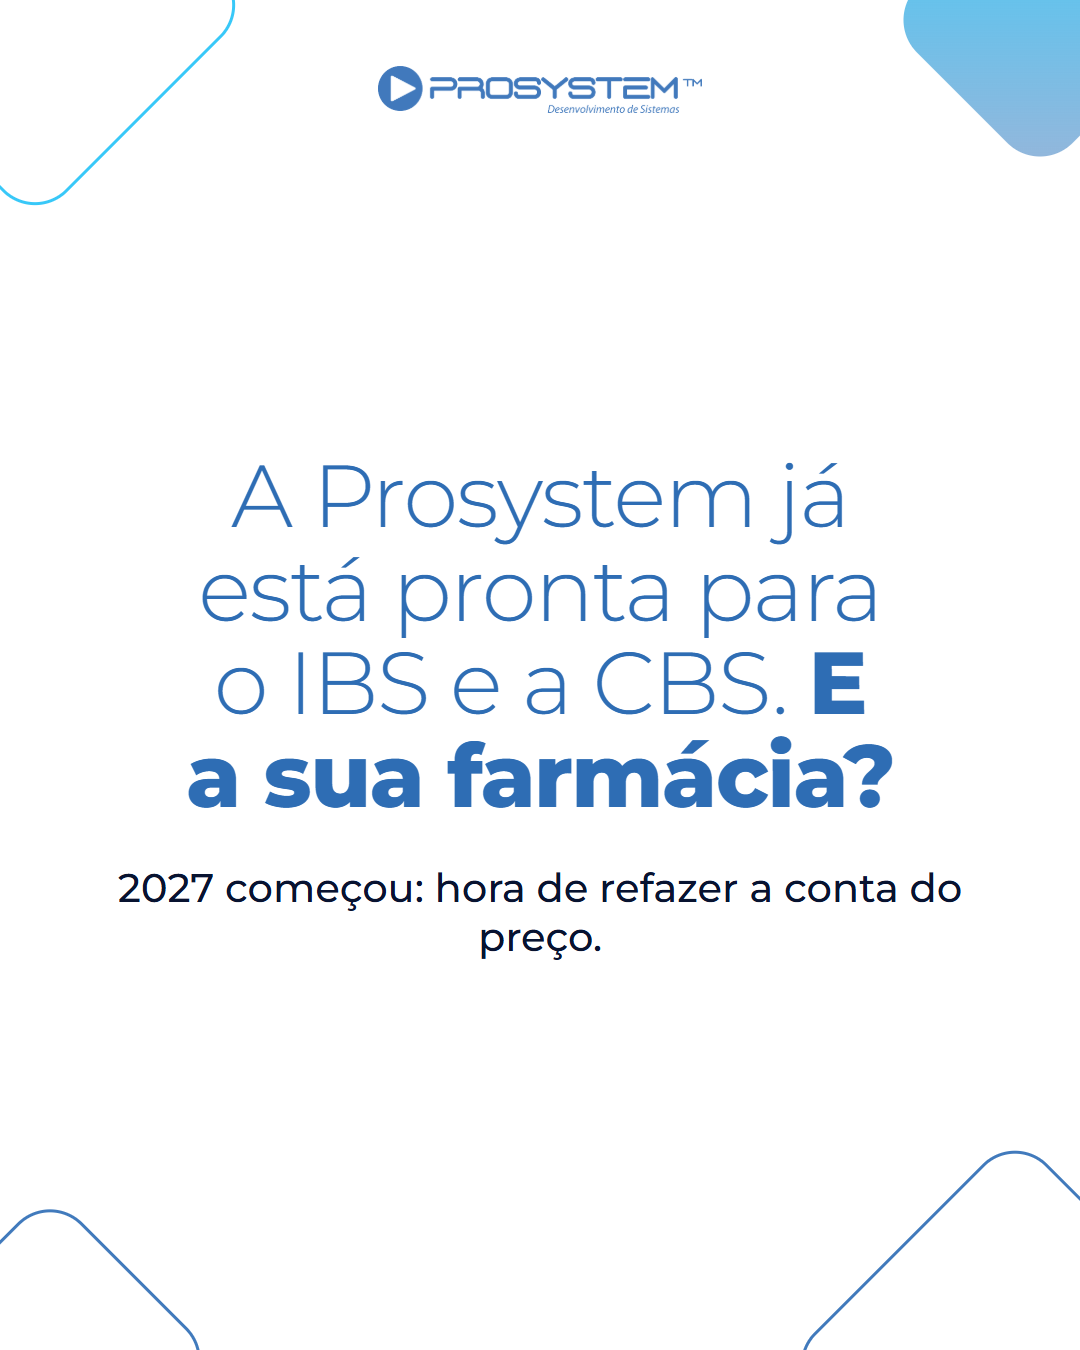
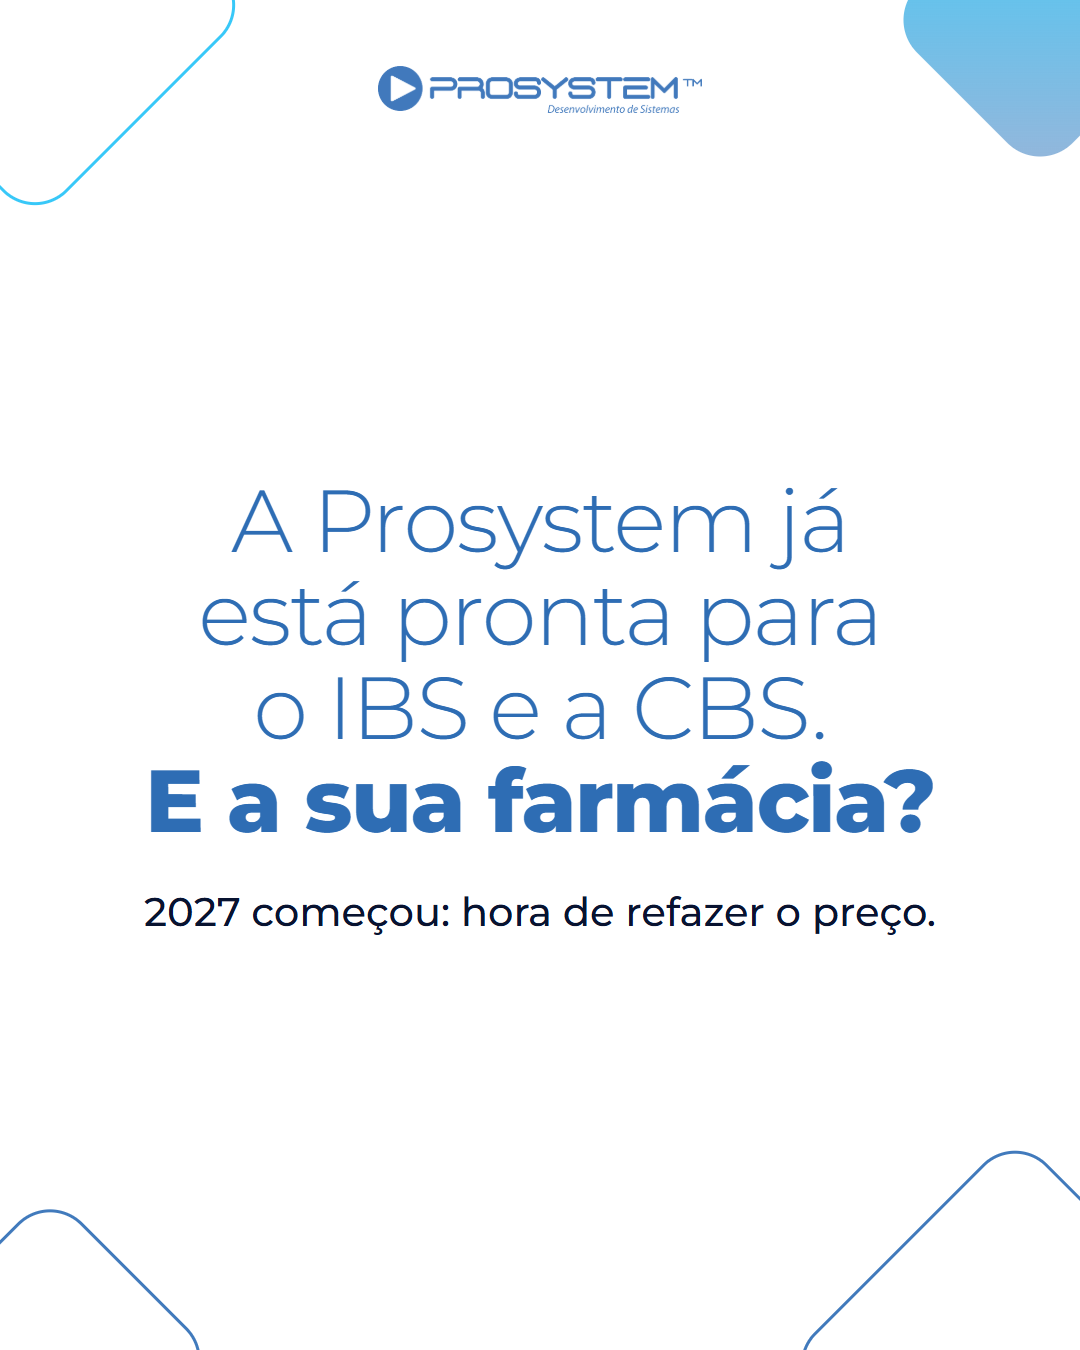
Peça da CBS (farmácia, 04/01): sem tela do sistema, vira frase de impacto 'A Prosystem já está pronta para o IBS e a CBS. E a sua farmácia?'; legendas.md regerado

Changed region(s): [[0.1222, 0.3422, 0.8861, 0.7156]]

diff --git a/outputs/criativos/nov-dez/pecas-dados.js b/outputs/criativos/nov-dez/pecas-dados.js
@@ -226,12 +226,12 @@ ${CTA}`,
   conferir: [] },
 
 { data: 'Seg 11/01', seg: 'Padaria', id: 'frase-padaria-sobra-v1', tipo: 'frase', tema: 'lar', formato: 'Frase de impacto',
-  titulo: 'Pão que sobra também é <b>prejuízo.</b>', apoio: 'Marque o dono da padaria.',
+  titulo: 'Pão que sobra também é <b>prejuízo.</b>', apoio: 'Novo artigo no ar!',
   kw: 'sobra de pão na padaria',
   cap: 'Sobra de pão na padaria é dinheiro que foi para o lixo. Quanto sobrou ontem na sua?\n\nPassado o Natal, vale olhar esse número com calma e seguir 2027 sabendo quanto produzir.\n\nMarque o dono da padaria.',
   tags: '#padaria #gestaodepadaria #panificacao',
   alts: ['Frase em laranja sobre fundo branco: pão que sobra também é prejuízo.'],
-  conferir: ['O termo "sobra de pão" não veio das sugestões do Google: conferir o volume.', 'O plano liga este post ao artigo de sobras: citar o blog na legenda quando o artigo estiver no ar.'] },
+  conferir: ['O termo "sobra de pão" não veio das sugestões do Google: conferir o volume.'] },
 
 { data: 'Sex 25/12', seg: 'Os dois', id: 'natal-v5', travada: true, tipo: 'natalRico', tema: 'azul', formato: 'Foto com losango e linha', nova: true, semAno: true, foto: 'arvore-natal-berlim',
   titulo: 'Depois de um dezembro corrido, <b>um Natal tranquilo.</b>', fs: 68, apoio: 'Boas festas a você e a toda a sua equipe.',
@@ -252,7 +252,7 @@ ${CTA}`,
   conferir: ['Exceção à pausa de 23/12 a 02/01, a pedido da Jessica: deixar agendado.'] },
 
 { data: 'Seg 04/01', seg: 'Farmácia', id: 'farmacia-cbs-v1', tipo: 'frase', tema: 'azul', formato: 'Frase de impacto', nova: true, fs: 88,
-  titulo: 'A Prosystem já está pronta para o IBS e a CBS. <b>E a sua farmácia?</b>', apoio: '2027 começou: hora de refazer a conta do preço.',
+  titulo: 'A Prosystem já está pronta para o IBS e a CBS.<br><b>E a sua farmácia?</b>', apoio: '2027 começou: hora de refazer o preço.',
   kw: 'reforma tributária na farmácia',
   cap: `Reforma tributária na farmácia em 2027: a CBS já está valendo, com taxa de [CONFIRMAR A TAXA E A FONTE NO DIA].
 
@@ -406,12 +406,12 @@ ${CTA}`,
   alts: ['Mãos segurando uma bola de massa, com o texto: por trás de cada fornada, tem quem chegou antes do sol. Feliz Dia do Profissional da Culinária.'],
   conferir: ['A data vem de uma só fonte do setor, sem lei ou calendário oficial: confirmar antes de publicar.'] },
 
-{ data: 'Qua 06/01', seg: 'Padaria', id: 'padaria-dia-de-reis-v1', tipo: 'padariaFoto', tema: 'lar', formato: 'Padaria com foto', nova: true, foto: 'panetone-mesa', pilula: 'Leia a legenda', fs: 88,
+{ data: 'Qua 06/01', seg: 'Padaria', id: 'padaria-dia-de-reis-v1', tipo: 'padariaFoto', tema: 'lar', formato: 'Padaria com foto', nova: true, foto: 'panetone-natal', pilula: 'Leia a legenda', fs: 88,
   titulo: 'Dia de Reis: a festa acabou. <b>E o panetone que sobrou?</b>',
   kw: 'panetone na padaria',
   cap: `Panetone na padaria: hoje é Dia de Reis, a temporada acaba, e o que ficou na prateleira vira dinheiro parado.\n\nVale olhar agora quanto sobrou e quanto foi vendido, para fazer a compra e a produção do próximo Natal com número na mão. É um bom jeito de começar 2027.\n\nNo Prosystem, o relatório de dias sem giro mostra há quanto tempo cada produto não vende.\n\n${CTA}`,
   tags: '#panetone #padaria #gestaodepadaria #sistemaparapadaria',
-  alts: ['Panetone polvilhado com açúcar sobre um prato dourado, com o texto: Dia de Reis, a festa acabou, e o panetone que sobrou?'],
+  alts: ['Panetone cortado, com uma fatia saindo, em frente a uma árvore de Natal iluminada, com o texto: Dia de Reis, a festa acabou, e o panetone que sobrou?'],
   conferir: ['Produto: o relatório de dias sem giro vale sem ajuste na padaria?'] },
 
 { data: 'Dom 31/01', seg: 'Farmácia', id: 'frase-janeiro-roxo-v2', tipo: 'frase', tema: 'azul', formato: 'Frase de impacto', nova: true, semAno: true, fs: 92,

diff --git a/outputs/criativos/nov-dez/legendas.md b/outputs/criativos/nov-dez/legendas.md
@@ -18,7 +18,7 @@ Arquivo gerado por `gerar.js`. Para mudar um texto, altere `pecas-dados.js` e ge
 | Seg 16/11 | Padaria | `padaria-pix-caixa-v1` | Estático com tela | `whats-fechamento-v2` |
 | Ter 17/11 | Farmácia | `farmacia-novembro-azul-v2` | Foto com painel | - |
 | Qua 18/11 | Farmácia | `farmacia-quem-liberou-desconto-v1` | Estático com tela | `whats-desconto` |
-| Qui 19/11 | Padaria | `padaria-escala-6x1-v1` | Foto com painel | - |
+| Qui 19/11 | Padaria | `padaria-escala-6x1-v1` | Estático com tela | `painel-vendas-totais` |
 | Sáb 21/11 | Farmácia | `farmacia-dia-da-dengue-v4` | Foto com painel | - |
 | Dom 22/11 | Farmácia | `frase-antimicrobianos-v2` | Frase de impacto | - |
 | Seg 23/11 | Farmácia | `carrossel-farmacia-black-friday-v2` | Carrossel V3 | `analise-descontos` |
@@ -29,19 +29,19 @@ Arquivo gerado por `gerar.js`. Para mudar um texto, altere `pecas-dados.js` e ge
 | Ter 01/12 | Farmácia | `frase-dezembro-vermelho-v2` | Frase de impacto | - |
 | Qua 02/12 | Farmácia | `farmacia-escala-5x2-v2` | Foto com painel | - |
 | Qui 03/12 | Farmácia | `farmacia-dezembro-laranja-v2` | Foto com painel | - |
-| Sex 04/12 | Padaria | `carrossel-padaria-sangria-v2` | Carrossel V2 | `sangria-bloqueio`, `sangria-aviso`, `sangria-registro` |
+| Sex 04/12 | Padaria | `carrossel-padaria-sangria-v2` | Carrossel V2 | `sangria-aviso`, `sangria-bloqueio`, `sangria-registro` |
 | Seg 07/12 | Farmácia | `carrossel-farmacia-popular-v2` | Carrossel V2 | `receitas-scanner` |
 | Ter 08/12 | Os dois | `depoimento-samuel-v2.png` | Depoimento | - |
 | Qua 09/12 | Padaria | `padaria-dia-da-culinaria-v2` | Padaria com foto | - |
 | Qui 10/12 | Padaria | `padaria-combos-v2` | Estático com tela | `combo-totais` |
-| Sex 11/12 | Farmácia | `carrossel-farmacia-uso-continuo-v3` | Carrossel V2 | `uso-continuo-alerta`, `uso-continuo-proxima-compra`, `uso-continuo-relatorio` |
+| Sex 11/12 | Farmácia | `carrossel-farmacia-uso-continuo-v3` | Carrossel V2 | `uso-continuo-proxima-compra`, `uso-continuo-alerta`, `uso-continuo-relatorio` |
 | Seg 14/12 | Padaria | `padaria-fechamento-caixa-v1` | Estático com tela | `fechamento-caixa` |
 | Qua 16/12 | Os dois | `frase-escala-hoje-v2` | Frase de impacto | - |
 | Sex 18/12 | Padaria | `padaria-curva-abc-v1` | Estático com tela | `curva-abc` |
 | Seg 21/12 | Farmácia | `frase-farmacia-receita-v1` | Frase de impacto | - |
 | Sex 25/12 | Os dois | `natal-v5` | Foto com losango e linha | - |
 | Sex 01/01 | Os dois | `ano-novo-v3` | Foto com linha | - |
-| Seg 04/01 | Farmácia | `farmacia-cbs-v1` | Estático com tela | `precificacao` |
+| Seg 04/01 | Farmácia | `farmacia-cbs-v1` | Frase de impacto | - |
 | Qua 06/01 | Padaria | `padaria-dia-de-reis-v1` | Padaria com foto | - |
 | Qui 07/01 | Padaria | `padaria-simples-nota-v2` | Foto com painel | - |
 | Sex 08/01 | Farmácia | `farmacia-mercado-2027-v1` | Estático com tela | `painel-vendas` |
@@ -62,18 +62,19 @@ Só em notebook ou desktop, em balcão do segmento ou escritório. Salve em `moc
 | Tela | Datas |
 |---|---|
 | `painel-estoque` | Qua 04/11 |
-| `precificacao` | Qua 11/11, Seg 04/01 |
+| `precificacao` | Qua 11/11 |
 | `dias-sem-giro` | Sex 13/11 |
 | `whats-fechamento-v2` | Seg 16/11 |
 | `whats-desconto` | Qua 18/11 |
+| `painel-vendas-totais` | Qui 19/11 |
 | `analise-descontos` | Seg 23/11 |
-| `sangria-bloqueio` | Sex 04/12 |
 | `sangria-aviso` | Sex 04/12 |
+| `sangria-bloqueio` | Sex 04/12 |
 | `sangria-registro` | Sex 04/12 |
 | `receitas-scanner` | Seg 07/12 |
 | `combo-totais` | Qui 10/12 |
-| `uso-continuo-alerta` | Sex 11/12 |
 | `uso-continuo-proxima-compra` | Sex 11/12 |
+| `uso-continuo-alerta` | Sex 11/12 |
 | `uso-continuo-relatorio` | Sex 11/12, Sáb 14/11 |
 | `fechamento-caixa` | Seg 14/12 |
 | `curva-abc` | Sex 18/12 |
@@ -195,7 +196,7 @@ Fale com um especialista pelo link da bio.
 
 #gestaodefarmacia #estoque #comprasnafarmacia #sistemaparafarmacia
 
-**Texto alternativo:** Caneta de aplicação branca, sem marca, e o relatório do Prosystem de produtos sem giro, filtrado por 30 dias sem venda, com o título: a caneta emagrecedora deve ficar mais barata, e a que está parada no seu estoque?
+**Texto alternativo:** Caneta de aplicação branca, sem marca, e o relatório do Prosystem de produtos sem giro, filtrado por 30 dias sem venda, com o título: a caneta de semaglutida deve ficar mais barata, e a que está parada no seu estoque?
 
 **Conferir antes de publicar:**
 
@@ -458,7 +459,7 @@ Atendimento discreto também é o que faz o cliente voltar.
 
 #dezembrovermelho #farmacia #atendimento
 
-**Texto alternativo:** Frase em azul sobre fundo branco: Dezembro Vermelho, no balcão, sigilo também é cuidado.
+**Texto alternativo:** Laço vermelho e frase em azul sobre fundo branco: Dezembro Vermelho, no balcão, sigilo também é cuidado.
 
 **Conferir antes de publicar:**
 
@@ -516,12 +517,12 @@ Quer esse controle na sua padaria? Fale com um especialista pelo link da bio.
 
 **Texto alternativo:**
 
-1. Aviso de caixa bloqueado sobre pães em uma prateleira, com o título: quanto dinheiro tem na sua gaveta agora?
+1. Pães em uma prateleira, com o título: quanto dinheiro tem na sua gaveta agora?
 2. Aviso do Prosystem pedindo a sangria programada e o texto: chegou no valor, o caixa avisa.
 3. Aviso de caixa bloqueado e o texto: passou do limite, o caixa trava.
 4. Tela de registro de sangria do Prosystem e o texto: toda retirada fica registrada.
-5. Aviso de sangria sobre um carrinho de pães e o texto: sangria com regra, sem depender da memória.
-6. Tela de registro de sangria e o convite para ter esse controle na padaria.
+5. Carrinho de pães e o texto: sangria com regra, sem depender da memória.
+6. Pães em uma prateleira e o convite para ter esse controle na padaria.
 
 **Conferir antes de publicar:**
 
@@ -543,12 +544,12 @@ Fale com um especialista pelo link da bio.
 
 **Texto alternativo:**
 
-1. Tela do scanner de receitas do Prosystem sobre uma medição de pressão, com o título: Farmácia Popular, multa de até 20%.
+1. Medição de pressão, com o título: Farmácia Popular, multa de até 20%.
 2. Prateleiras de farmácia e o texto: a fiscalização ficou automática.
 3. Calculadora e o texto: a multa cresceu, de 10% para 20%.
 4. Mãos digitando em um teclado e o texto: guarde por 5 anos, de preferência em meio digital.
 5. Tela do scanner de receitas e o texto: receita guardada, sem pilha de caixa.
-6. Tela do scanner de receitas e o convite para organizar isso na farmácia.
+6. Prateleiras de farmácia e o convite para organizar isso na farmácia.
 
 **Conferir antes de publicar:**
 
@@ -617,12 +618,12 @@ Fale com um especialista pelo link da bio.
 
 **Texto alternativo:**
 
-1. Alerta do Prosystem de que a medicação do cliente está para acabar, com o título: o remédio do seu cliente acaba em 8 dias.
+1. Comprimidos coloridos, com o título: o remédio do seu cliente acaba em 8 dias.
 2. Tela de próxima compra do Prosystem e o texto: na venda, o sistema marca a data.
 3. Alerta no balcão e o texto: ele volta, e o balcão é avisado.
 4. Relatório de clientes de uso contínuo e o texto: quem deve comprar vira lista.
-5. Alerta do Prosystem e o texto: lembre antes da outra farmácia, 13% já compram pelo WhatsApp.
-6. Alerta do Prosystem e o convite para ver o uso contínuo na farmácia.
+5. Cartelas de comprimidos e o texto: lembre antes da outra farmácia, 13% já compram pelo WhatsApp.
+6. Prateleiras de farmácia e o convite para ver o uso contínuo na farmácia.
 
 **Conferir antes de publicar:**
 
@@ -736,18 +737,18 @@ Reforma tributária na farmácia em 2027: a CBS já está valendo, com taxa de [
 
 Se o preço da sua loja foi feito com o imposto antigo, esta é a semana de sentar com o contador e refazer a conta. Remédio registrado tem regra própria, com corte de 60%.
 
-Na Precificação do Prosystem, a composição de custo e a fórmula de preço ficam na mesma tela.
+O Prosystem já está preparado para o IBS e a CBS, e na Precificação a composição de custo e a fórmula de preço ficam na mesma tela.
 
 Fale com um especialista pelo link da bio.
 
-#reformatributaria #cbs #gestaodefarmacia #sistemaparafarmacia
+#reformatributaria #cbs #ibs #gestaodefarmacia #sistemaparafarmacia
 
-**Texto alternativo:** Tela de precificação do Prosystem com as fórmulas do preço de venda, e o título: 2027 começou, e a CBS também, você já refez a conta?
+**Texto alternativo:** Frase em azul sobre fundo branco: a Prosystem já está pronta para o IBS e a CBS. E a sua farmácia?
 
 **Conferir antes de publicar:**
 
 - Só publicar depois de o Senado fixar a taxa, ou de confirmar que os 11,3% valeram. Preencher o trecho entre colchetes da legenda.
-- A tela cita ICMS_ST e é pequena e antiga: pedir captura nova.
+- Confirmar com o produto que o sistema já emite com IBS e CBS antes de publicar: a peça promete isso.
 
 
 ### Qua 06/01: padaria-dia-de-reis-v1
@@ -928,8 +929,8 @@ Fale com um especialista pelo link da bio.
 2. Prateleiras de farmácia e o texto: atendeu e ficou na memória?
 3. Mãos digitando e o texto: registre cada atendimento.
 4. Ficha de anamnese do Prosystem e o texto: a ficha fica pronta.
-5. Ficha de anamnese do Prosystem e o texto: o trabalho do farmacêutico à vista.
-6. Ficha de anamnese e o convite para ver a ficha na farmácia.
+5. Cartelas de comprimidos e o texto: o trabalho do farmacêutico à vista.
+6. Prateleiras de farmácia e o convite para ver a ficha na farmácia.
 
 **Conferir antes de publicar:**
 

diff --git a/docs/contexto/relatorios/2026-11-03-cbs-farmacia-sem-tela.md b/docs/contexto/relatorios/2026-11-03-cbs-farmacia-sem-tela.md
@@ -1,0 +1,28 @@
+# 03/11/2026: peça da CBS (farmácia, 04/01) sem tela e com chamada nova
+
+## Pedido
+Na peça `farmacia-cbs-v1` (Seg 04/01): "Tire a tela do sistema e melhore essa chamada do tipo, nós já estamos prontos para o IBS e CBS e a sua empresa? Algo assim, mas sem perder o sentido da postagem."
+
+## Feito
+- `outputs/criativos/nov-dez/pecas-dados.js`: a peça passou de "Estático com tela" (`comTela`, tela `precificacao`) para "Frase de impacto" (`frase`, fundo branco), o tipo do caderno para post só de texto. O id `farmacia-cbs-v1` foi mantido para não quebrar referências no planejamento.
+  - Título: "A Prosystem já está pronta para o IBS e a CBS. **E a sua farmácia?**"
+  - Apoio: "2027 começou: hora de refazer o preço." (mantém o sentido de refazer a conta com a CBS valendo).
+  - Legenda: a frase final passou a dizer que o Prosystem já está preparado para o IBS e a CBS; hashtag `#ibs` incluída; texto alternativo atualizado.
+- `pecas/farmacia-cbs-v1.png` regerado.
+- `legendas.md` regerado a partir dos dados: estava desatualizado e também trouxe mudanças já feitas em outras peças (carrosséis sem tela na capa, 6x1 da padaria, laço do Dezembro Vermelho).
+- Parte da primeira edição entrou no commit automático 23bd86e; o restante está no commit deste relatório.
+
+## Verificado
+- Peça gerada sem estouro e conferida na imagem: título em 4 linhas, "E a sua farmácia?" inteiro em negrito, apoio em uma linha.
+- Não verificado: se o sistema de fato já emite com IBS e CBS.
+
+## Decisões e porquês
+- Frase de impacto em vez de manter o fundo azul sem tela: o caderno não tem "estático com tela" sem tela; a frase é o tipo aprovado para só texto.
+- Quebra de linha forçada antes do negrito, para o "E" não ficar sozinho no fim da linha.
+
+## Pendente
+- Jessica / produto: confirmar que o Prosystem já está pronto para IBS e CBS (a peça promete isso; está em "Conferir antes de publicar").
+- Preencher a taxa da CBS na legenda no dia (já estava pendente).
+
+## Próxima sessão
+Se a Jessica preferir o fundo azul forte, criar uma variação da frase em `gerar.js` (tipo `frase` com fundo `forte`) e regerar com `node outputs/criativos/nov-dez/gerar.js farmacia-cbs-v1`.

diff --git a/outputs/criativos/nov-dez/fotos/CREDITOS.md b/outputs/criativos/nov-dez/fotos/CREDITOS.md
@@ -18,3 +18,4 @@ Wikimedia Commons. Licença lida nos dados de cada arquivo em 31/10/2026.
 
 Os recortes `prateleiras-desfocadas`, `farmaceutica-recorte` e `paes-prateleira-sem-etiqueta` têm os créditos em `outputs/criativos/modelos/carrossel/fotos/CREDITOS.md`.
 - `caneta-branca.jpg`: PerPlex, Public domain, https://commons.wikimedia.org/wiki/File:Insulin_pen.JPG (só a caneta branca, sem a agulha, com o texto do cartucho desfocado), baixada em 03/11/2026
+- `panetone-natal.jpg`: N i c o l a, from Fiumicino (Rome), Italy (https://www.flickr.com/people/15216811@N06), CC BY 2.0 (crédito obrigatório), https://commons.wikimedia.org/wiki/File:Panettone_-_Nicolettone_2017_-_IMG_7092_(31752504105).jpg, baixada em 03/11/2026 para o Dia de Reis (06/01)
